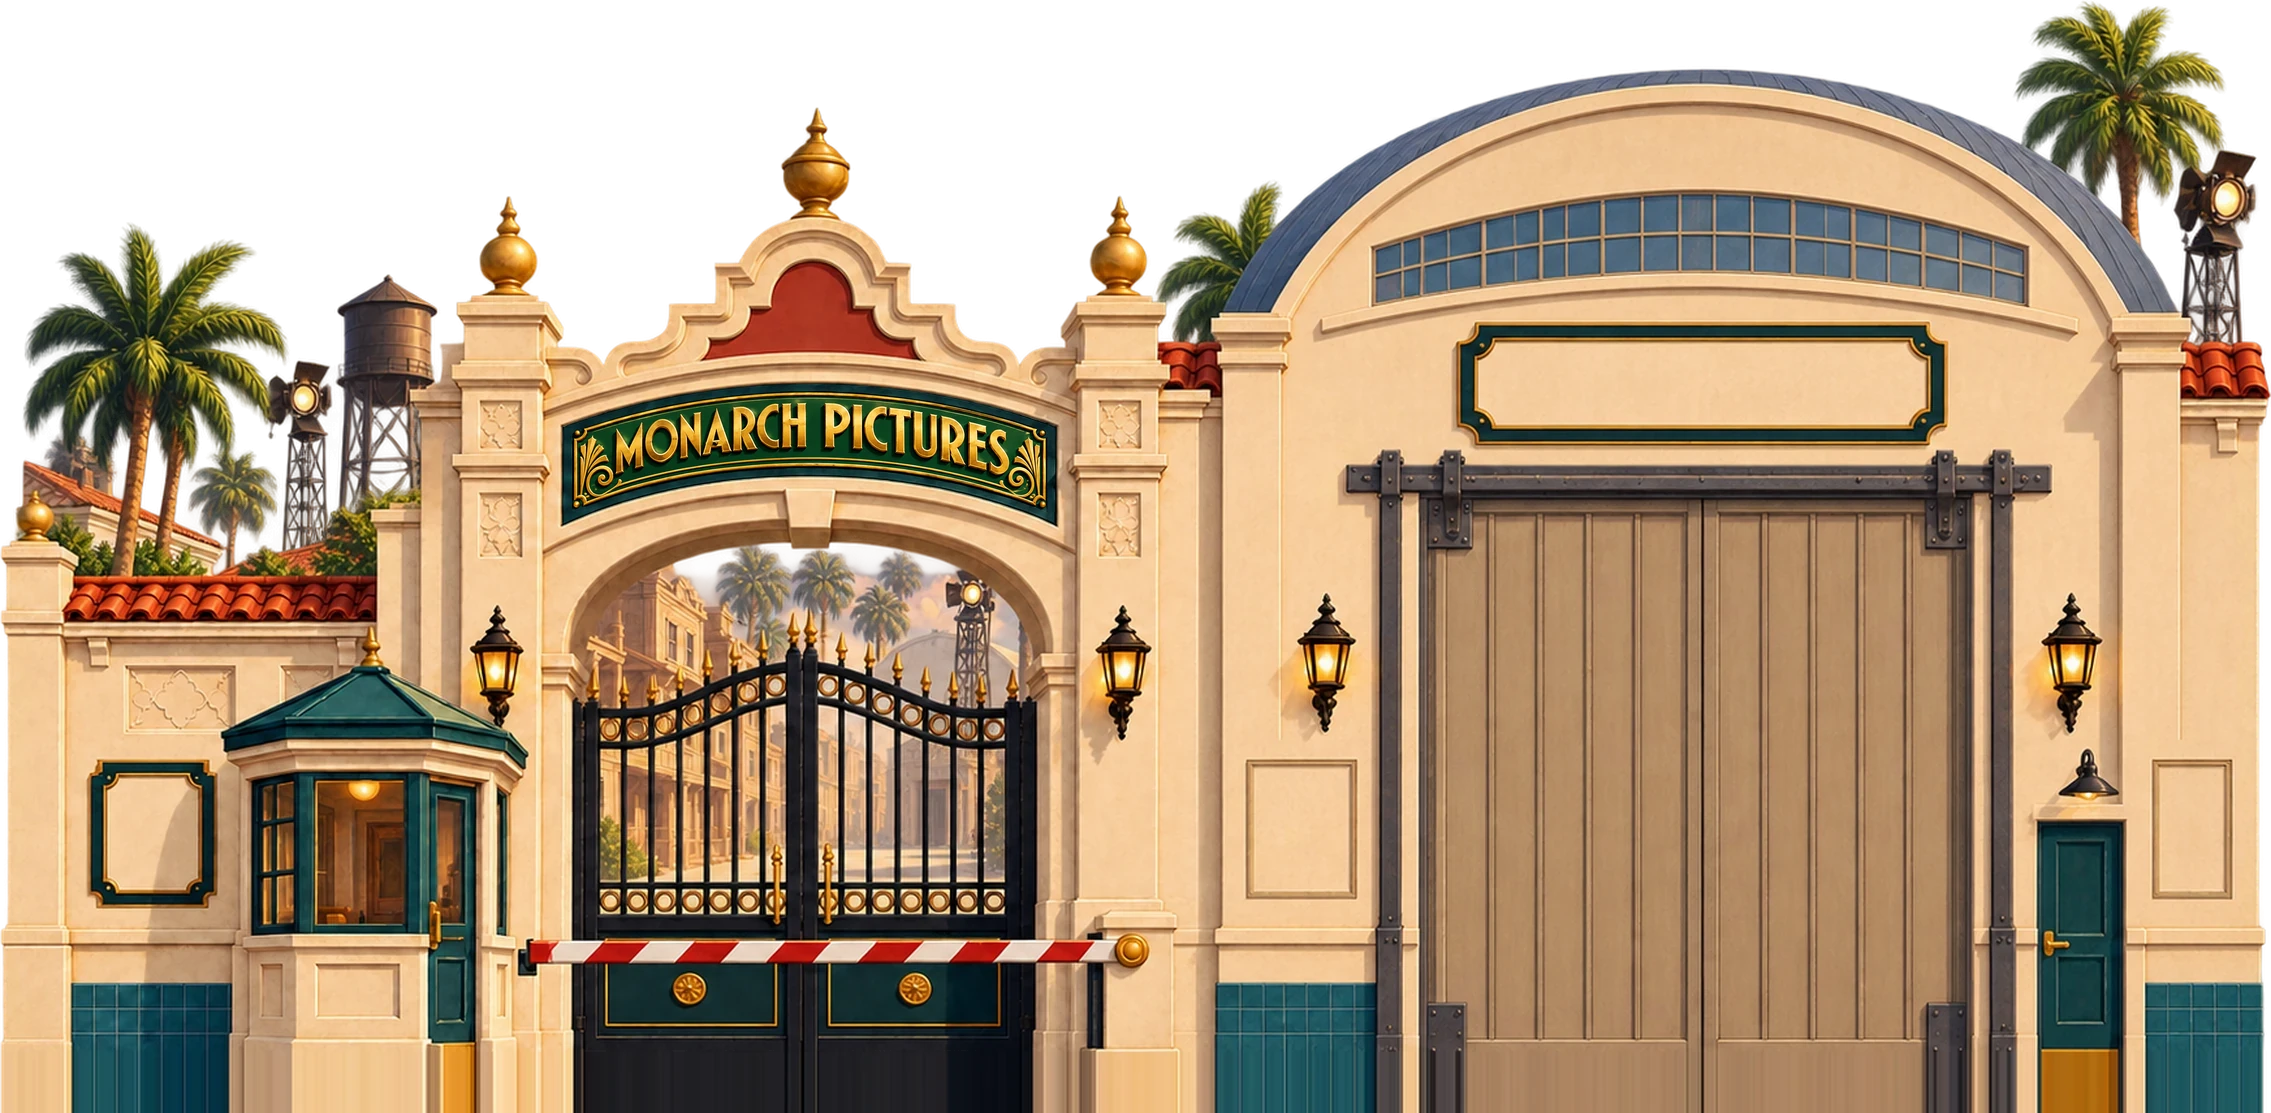
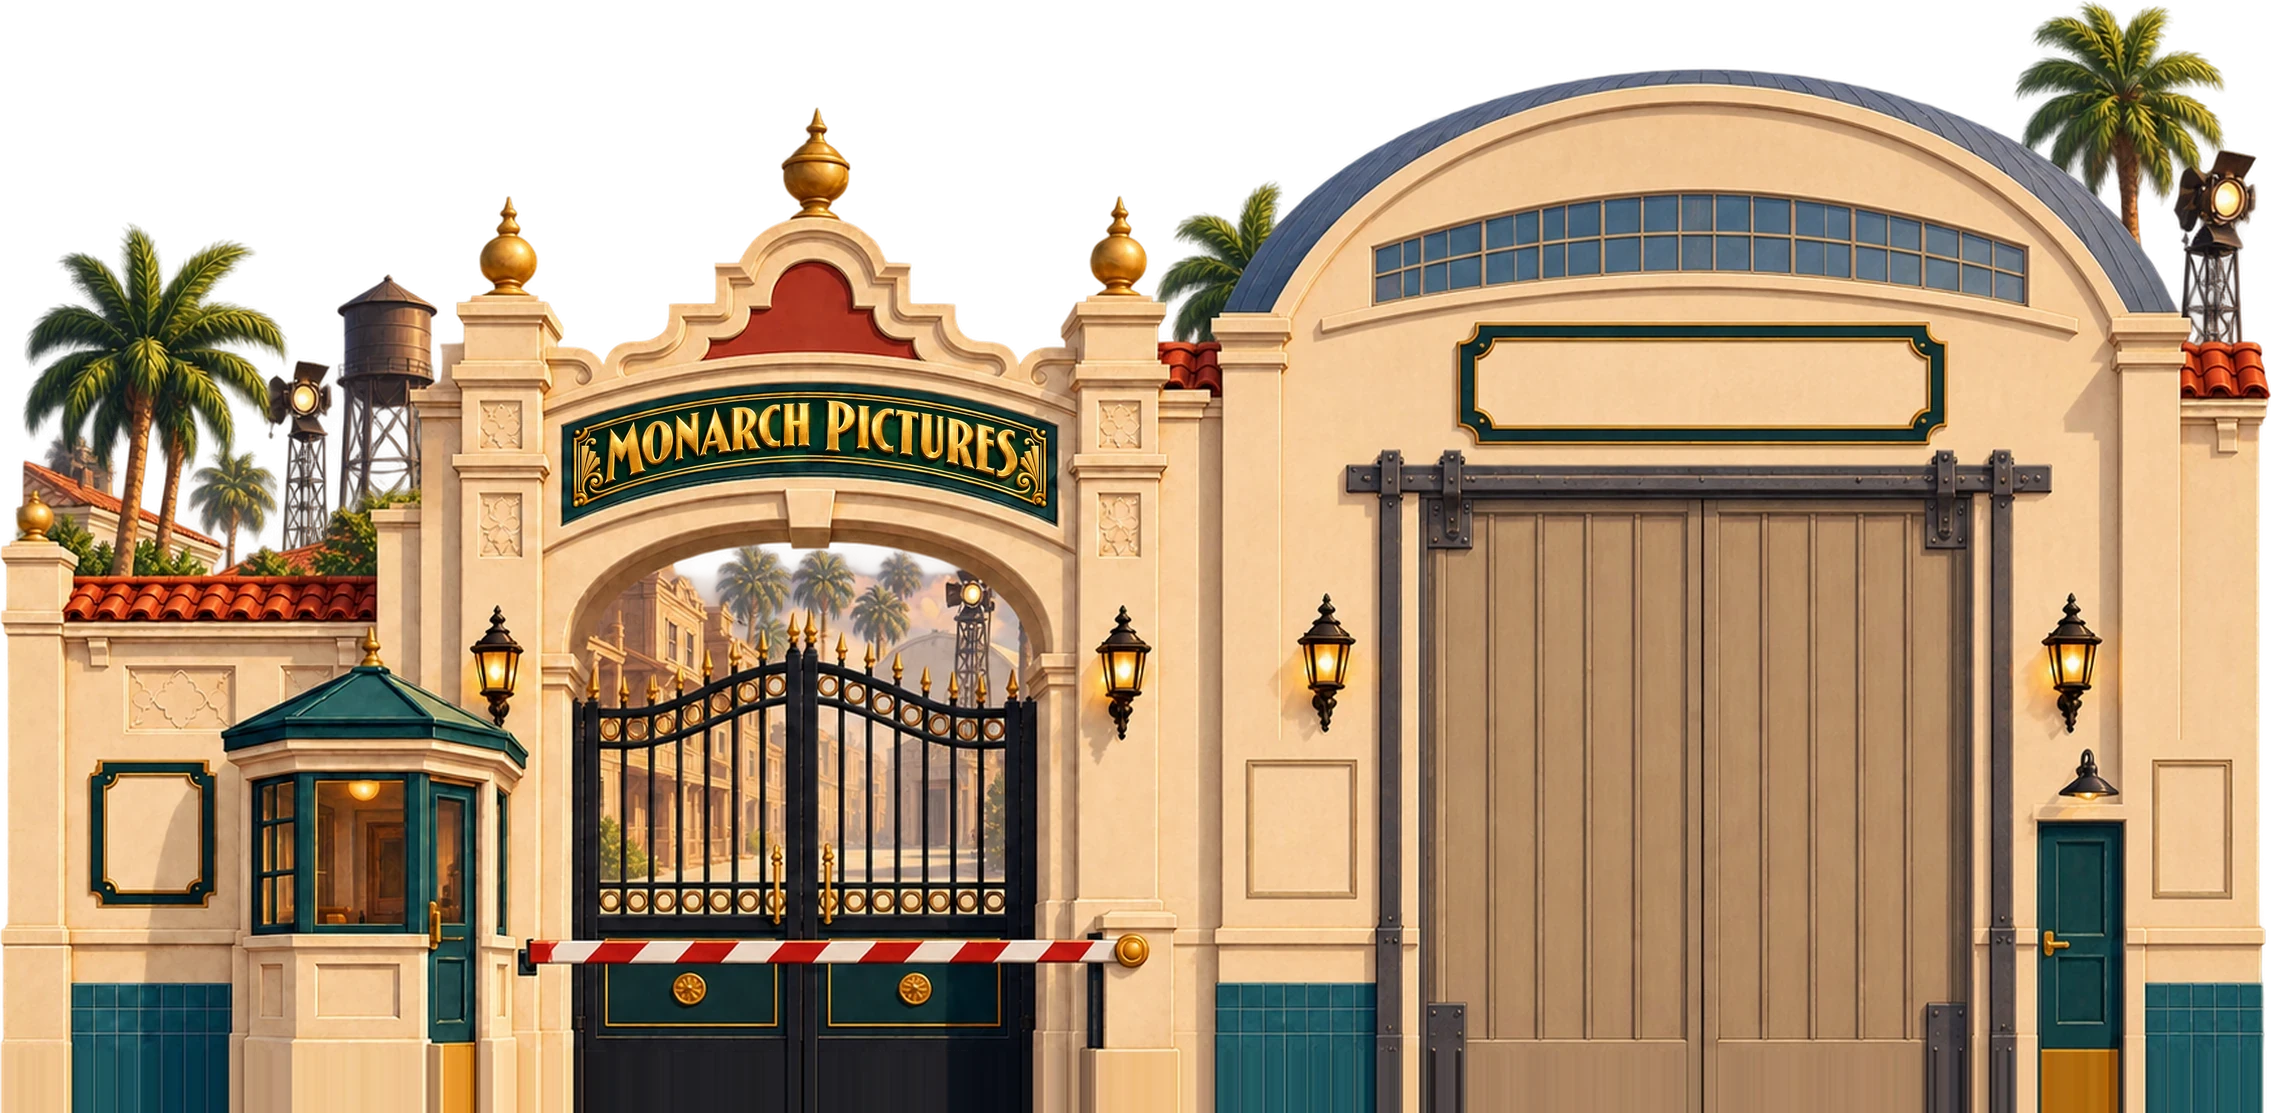
Swap the Monarch arch sign to take 1
The owner preferred take 1 of the ornate Monarch Pictures sign (bolder, warmer
gold letters) over take 2, which shipped in #56. Both gate modules (closed and
open) are recomposited from the untouched originals with take 1.

Take 1 re-draws the panel's teal border about 3% smaller than the original's,
so its light stucco showed as a thin pale line under the bottom border. The
composite script now limits the swap to where the edit itself has panel and
keeps the original border everywhere else; the fix applies to either take.
The take is now a TAKE constant at the top of composite_sign.py.

Only the two gate WebPs change at runtime (same size and transform), and the
brief records that take 2 shipped first and take 1 replaced it.

Changed region(s): [[0.2466, 0.336, 0.4624, 0.4582]]

diff --git a/art/prompts/boulevard-monarch-sign.md b/art/prompts/boulevard-monarch-sign.md
@@ -1,6 +1,6 @@
 # Art brief: ornate Monarch Pictures arch sign
 
-Status: **built and in the working tree for owner review; not committed.** Replaces the plain text that was drawn over the gate's blank arch panel.
+Status: **approved by the owner and merged (take 2, PR #56); the owner then preferred take 1 and it was swapped in on 2026-09-20.** Replaces the plain text that was drawn over the gate's blank arch panel.
 
 ## What it is
 
@@ -9,8 +9,8 @@ The Monarch Pictures gate module (`monarch-gate.webp` closed, `monarch-gate-acti
 ## Method
 
 - The curved panel's silhouette was traced in module pixels (498 x 145 px at `(561, 382)`), and a 545 x 192 crop of the arch around it was sent to gg-image as an **edit** with the panel's shape, position and border to be kept and everything outside it unchanged.
-- Two takes; take 2 chosen (more level lettering, richer green). The edit registers with the original exactly: 0 px shift, panel bounding boxes identical, so no alignment was needed.
-- Only the panel's own silhouette (shrunk 1 px, feathered 1.2 px) was composited back into the modules, so the stucco arch, pylons, ornaments and keystone are pixel-identical to the approved modules. The open-gate module's panel outline overlaps the closed one by 99.4%, and the same edit was composited into both, so the sign never changes when the gate opens.
+- Two takes. Take 2 (more level lettering, richer green) shipped first; the owner preferred **take 1** (bolder, warmer gold letters with a slightly softer green) and it replaced it. Both edits register with the original exactly (0 px shift, panel bounding boxes within 1 px), so no alignment was needed.
+- Only the panel's own silhouette (shrunk 1 px, feathered 1.2 px) was composited back into the modules, so the stucco arch, pylons, ornaments and keystone are pixel-identical to the approved modules. Take 1 re-draws the panel border about 3% smaller than the original's, so the composite is also limited to where the edit itself has panel; where the original border extends past it, the original teal is kept. Without that, take 1's light stucco showed as a thin pale line under the bottom border (found in close-ups and fixed). The open-gate module's panel outline overlaps the closed one by 99.4%, and the same edit was composited into both, so the sign never changes when the gate opens.
 - The lettering is now art, so the scene no longer draws it: `sign.painted: true` on the `backlot-gate` location in `data/boulevard-manifest.json` (an optional flag in `BoulevardSign`; `text` stays as the sign's name for the tools and tests). The art-director mockup skips the overlay for painted signs too.
 
 ## Prompt
@@ -26,16 +26,16 @@ prompt_or_brief: this file; art/generated/monarch-sign/prompt-edit-r1.txt
 reference_asset_ids: boulevard_v3_monarch_gate_wide, boulevard_v3_monarch_gate_wide_active
 generation_tool_and_version: gpt-image-2 via gg-image edit (Codex ChatGPT backend), --quality high; local mask tracing and compositing with art/generated/monarch-sign/tools/composite_sign.py
 generation_date: 2026-09-20
-raw_source_location: art/generated/monarch-sign/edit-take1.png and edit-take2.png (edits of ref-crop.png)
+raw_source_location: art/generated/monarch-sign/edit-take1.png (in the game) and edit-take2.png (alternate, shipped in PR #56), both edits of ref-crop.png
 human_edits: none to the drawing. Deterministic processing only: crop, downscale of the edit from 2112 to 545 px wide, panel-silhouette composite with a 1 px inset and 1.2 px feather
 originals: art/generated/monarch-sign/originals/monarch-gate.webp and monarch-gate-active.webp (the modules before this change)
-review_status: pending owner review
+review_status: approved by the owner (take 2 first, then take 1 chosen 2026-09-20)
 rights_or_license_notes: project-owned development generation; human rights/provenance review required. The lettering is the studio name only.
 runtime_files: public/assets/environments/boulevard-v3/buildings/monarch-gate.webp and monarch-gate-active.webp (2271 x 1113 RGBA, lossy quality 90, alpha_quality 100, same size and transform as before)
 ```
 
 ## Known issues for the reviewer
 
-- The sign's lettering was drawn by the model, not typeset. It reads correctly and follows the curve, but its letter shapes are its own; a different take can be composited in with the same script.
+- The sign's lettering was drawn by the model, not typeset. It reads correctly and follows the curve, but its letter shapes are its own; the other take can be composited in by changing `TAKE` at the top of `tools/composite_sign.py`.
 - The new sign is much brighter and more detailed than the rest of the arch, by design, since it is the gate's headline; if it competes with the gate for attention it can be toned down.
 - Because the text is now art, changing the sign's `text` in the art-director tool no longer changes what shows in the game.
